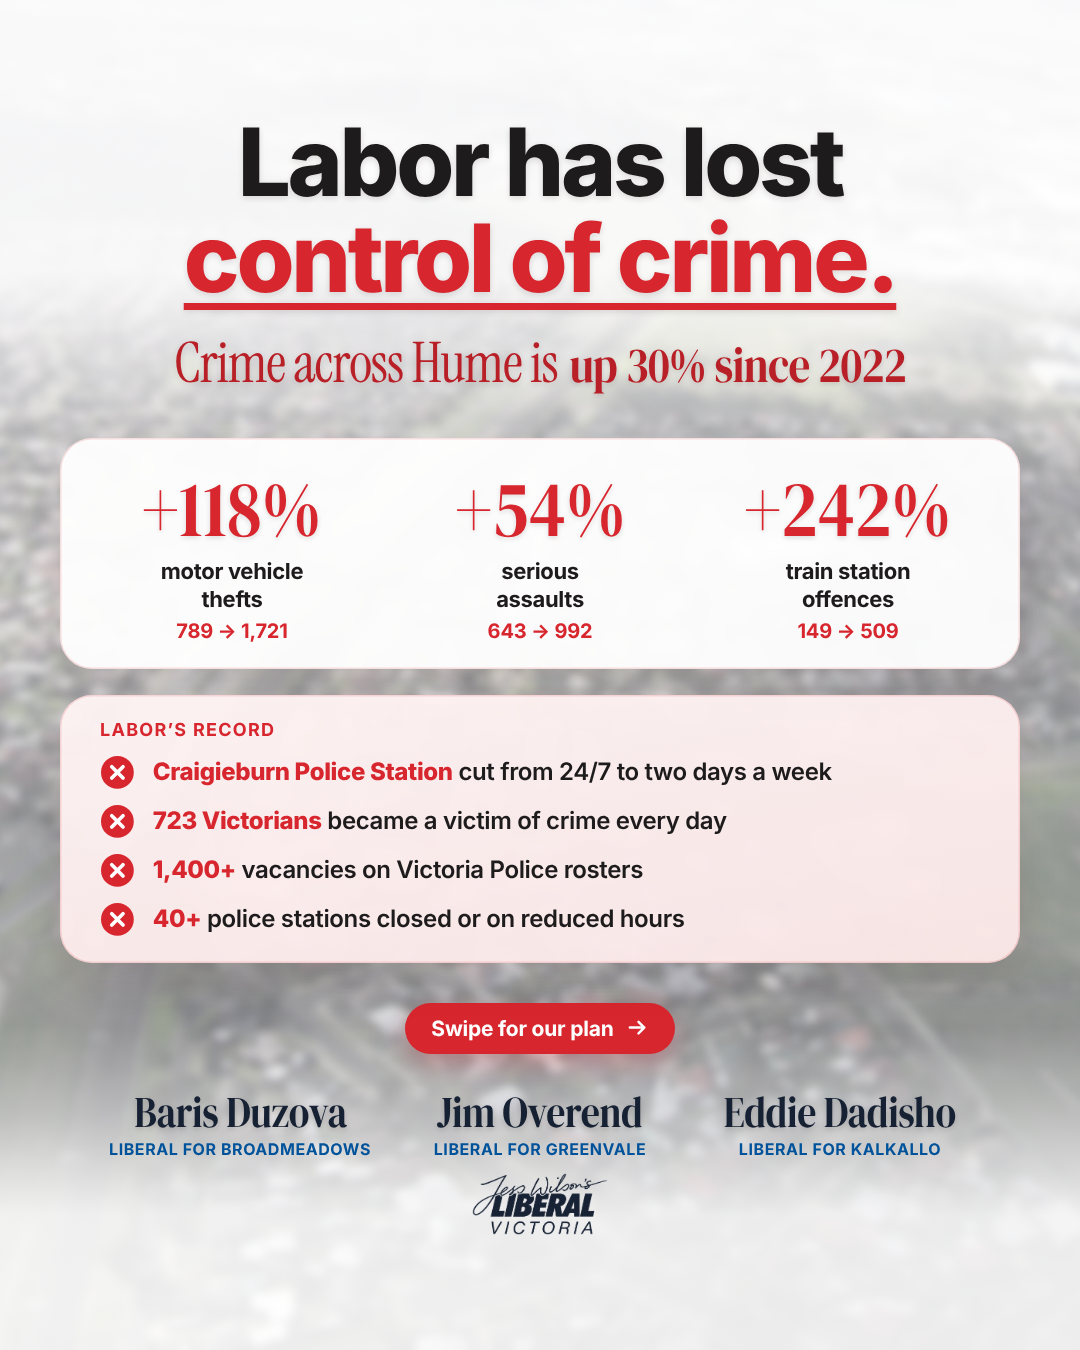
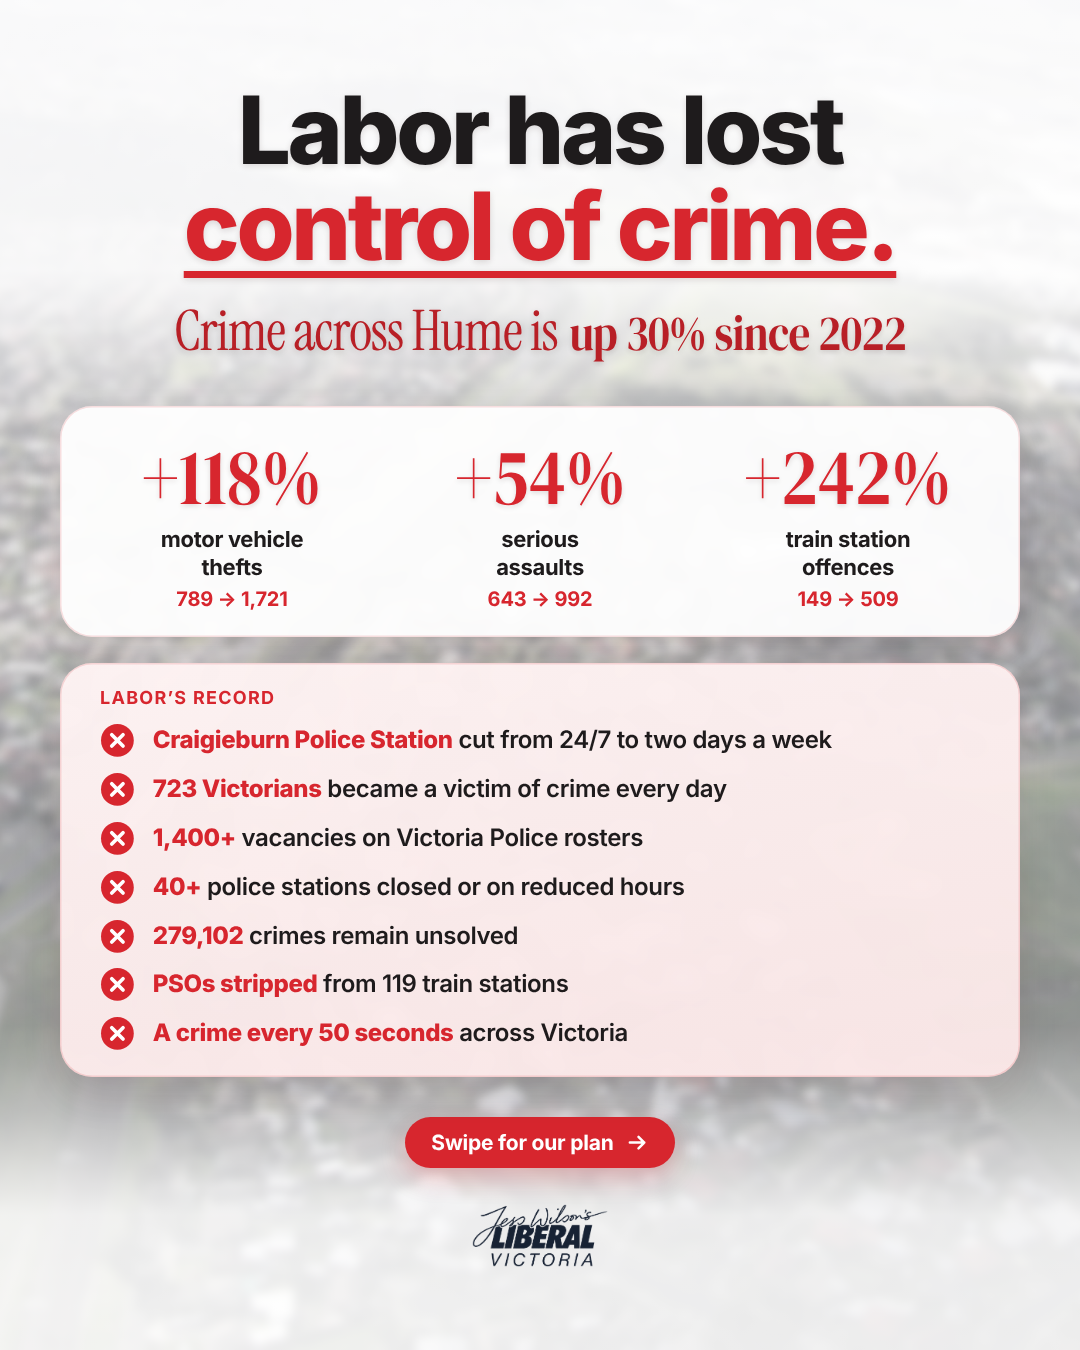
Crime slide 1: drop candidate names, extend Labor's record
Add unsolved crimes, PSOs removed from 119 stations and 'a crime every
50 seconds'; logo only at the bottom. Update caption notes and preview.

Claude-Session: https://claude.ai/code/session_01MT6wivusBEagFnhed7SAun

Changed region(s): [[0.0306, 0.0622, 0.9472, 0.9333]]

diff --git a/designs/crime-north/source/crime-labor.html b/designs/crime-north/source/crime-labor.html
@@ -63,7 +63,7 @@ h1 .ul{text-decoration:underline;text-decoration-color:var(--red);text-decoratio
 <script>
 const P = Object.assign({
   // Defaults = the published layout. Override any key via ?p={"key":value} (see render.js).
-  wash:[.90,.30,.88], top:115,
+  wash:[.90,.30,.88], top:83,
   head:'Labor has lost<br><span class="acc ul">control of crime.</span>', hSize:94,
   lead:'<span class="lt">Crime across Hume is</span> <span class="bd">up 30% since 2022</span>', leadSize:50,
   // Crime Statistics Agency, Hume LGA, year to June 2026 vs year to December 2022: [big, label, before → after]
@@ -74,11 +74,14 @@ const P = Object.assign({
     '<b>723 Victorians</b> became a victim of crime every day',
     '<b>1,400+</b> vacancies on Victoria Police rosters',
     '<b>40+</b> police stations closed or on reduced hours',
+    '<b>279,102</b> crimes remain unsolved',
+    '<b>PSOs stripped</b> from 119 train stations',
+    '<b>A crime every 50 seconds</b> across Victoria',
   ]},
   swipe:'Swipe for our plan', swipeSize:21,
   gaps:[26,44,26,40,0,36],               // after head, lead, stats, record, (unused), swipe
   // candidates, ordered by electorate
-  cands:[['Baris Duzova','Liberal for Broadmeadows'],['Jim Overend','Liberal for Greenvale'],['Eddie Dadisho','Liberal for Kalkallo']],
+  cands:[],                              // no candidate names on this slide (they sign off slide 2)
   nameSize:44, roleSize:16, nameGap:20, colW:280, logoW:136, footGap:14
 }, JSON.parse(new URLSearchParams(location.search).get('p')||'{}'));
 const $=id=>document.getElementById(id), px=v=>v+'px';
@@ -93,7 +96,7 @@ $('record').querySelector('.rows').innerHTML=R.rows.map(t=>`<div class="x" style
 $('swipe').querySelector('span').innerHTML=P.swipe; $('swipe').style.fontSize=px(P.swipeSize);
 [['h',0],['lead',1],['stats',2],['record',3],['swipe',5]].forEach(([id,i])=>$(id).style.marginBottom=px(P.gaps[i]));
 $('names').innerHTML=P.cands.map(([n,r])=>`<div class="cand"><div class="n" style="font-size:${P.nameSize}px">${n}</div><div class="r" style="font-size:${P.roleSize}px">${r}</div></div>`).join('');
-$('names').style.setProperty('--ngap',px(P.nameGap)); $('names').style.setProperty('--ncols',P.cands.length); $('names').style.setProperty('--ncol',px(P.colW));
+$('names').style.setProperty('--ngap',px(P.nameGap)); if(!P.cands.length) $('names').style.display='none'; $('names').style.setProperty('--ncols',P.cands.length); $('names').style.setProperty('--ncol',px(P.colW));
 document.fonts.ready.then(()=>document.querySelectorAll('.cand .n').forEach(el=>{const m=-(el.offsetWidth*(1-0.86)/2); el.style.marginLeft=el.style.marginRight=m+'px';}));
 $('logo').style.width=px(P.logoW); $('foot').style.gap=px(P.footGap);
 document.fonts.ready.then(()=>document.querySelectorAll('.serif .bd').forEach(el=>{const m=-(el.offsetWidth*(1-0.86)/2); el.style.marginLeft=el.style.marginRight=m+'px';}));

diff --git a/designs/crime-north/crime-post.md b/designs/crime-north/crime-post.md
@@ -5,7 +5,7 @@ Two 1080×1350 slides (plus `@2x`, 2160×2700) in the same style as the Technica
 1. `crime-1-labor.png` — **Labor's failure**, in Labor red and white
 2. `crime-2-plan.png` — **The Liberal Plan**, in Liberal blue
 
-Both slides are signed off by three candidates, in equal-width columns ordered alphabetically by electorate
+Slide 1 carries only the Liberal Victoria logo (no candidate names). Slide 2 is signed off by three candidates, in equal-width columns ordered alphabetically by electorate
 (which puts Jim in the centre): **Baris Duzova, Liberal for Broadmeadows** · **Jim Overend, Liberal for
 Greenvale** · **Eddie Dadisho, Liberal for Kalkallo**, with the Jess Wilson's Liberal Victoria logo centred
 beneath (`cands` in each page's defaults).
@@ -53,6 +53,9 @@ Serif line: *Crime across Hume is **up 30% since 2022***
 | 723 Victorians became a victim of crime every day | 263,746 victims in the 12 months to June 2026 | CSA (via Liberal material) |
 | 1,400+ vacancies on Victoria Police rosters | | Liberal material |
 | 40+ police stations closed or on reduced hours | | Liberal material |
+| 279,102 crimes remain unsolved | year to June 2026 | CSA (via Liberal material) |
+| PSOs stripped from 119 train stations | permanent PSOs removed from 119 Melbourne stations | Liberal policy, *Our Plan to Keep Victorians Safe* |
+| A crime every 50 seconds across Victoria | | Liberal policy, citing Crime Statistics Agency |
 
 **Caveat:** the CSA figures cover the **whole Hume council area**. They are not published by state district, so they include areas outside Greenvale. That's why the slide says "Hume", not "Greenvale".
 
